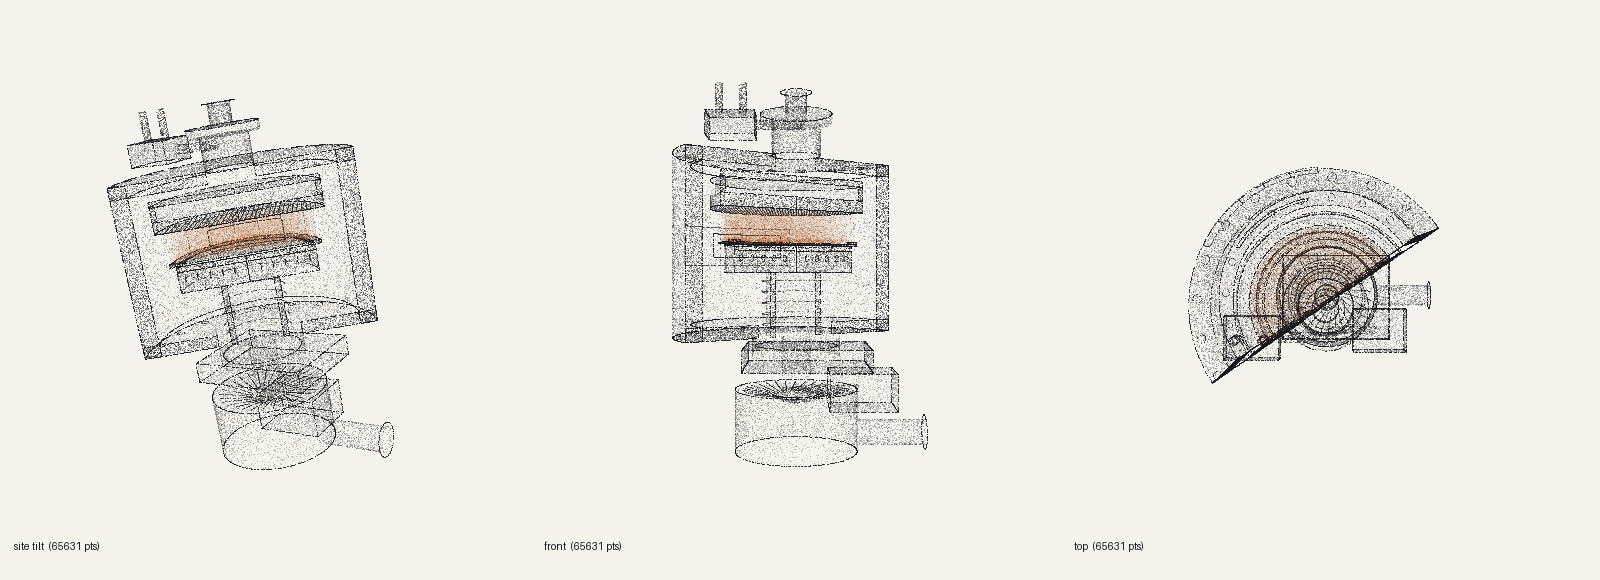
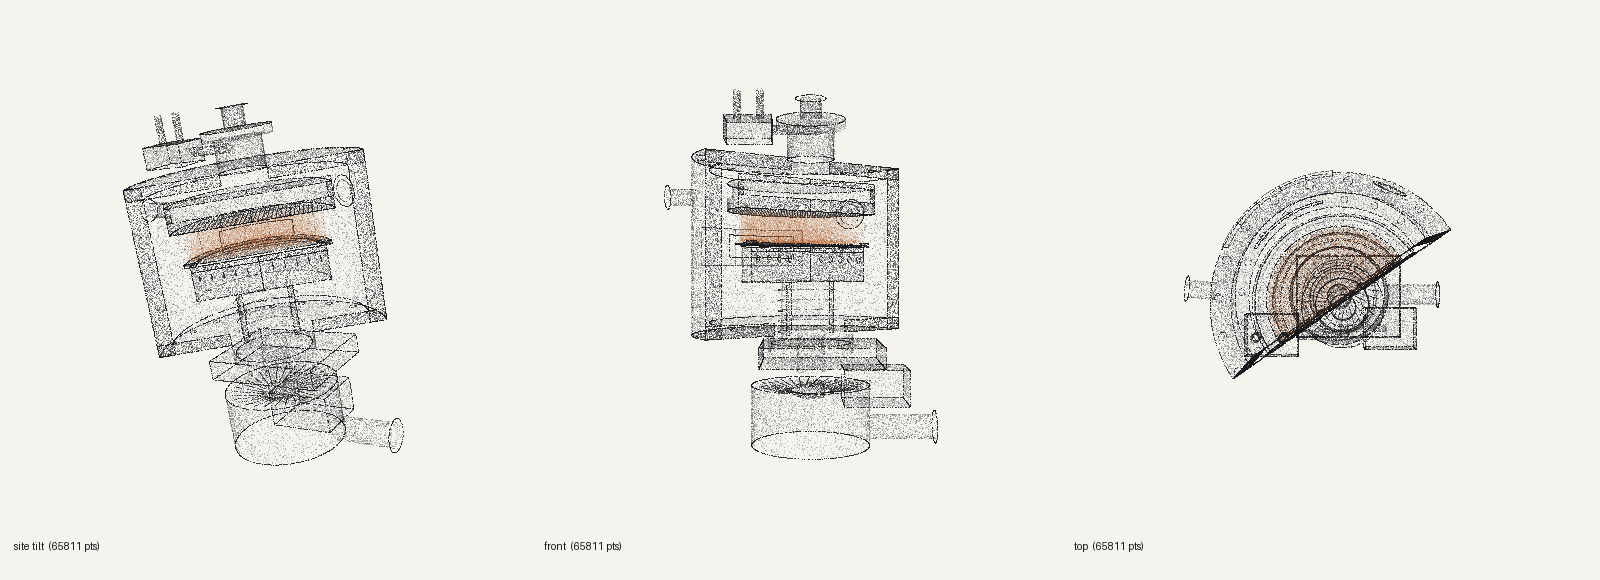
Auto-checkpoint: specimen redesign outputs

Changed region(s): [[0.0625, 0.1552, 0.25, 0.8069], [0.4062, 0.1552, 0.5938, 0.8069], [0.7188, 0.2793, 0.9062, 0.6517]]

diff --git a/dist/index.html b/dist/index.html
@@ -4558,7 +4558,7 @@ PC.register('process-chamber', function (p) {
 
   var yMid = (yTop + yBot) / 2, yLid = yTop + wall, yFlo = yBot - wall;
   add(PC.T(cut(PC.cylinder({ r: rO, h: yLid - yFlo, caps: false, n: 9000, tone: 0.36 })), { pos: [0, (yLid + yFlo) / 2, 0] }));
-  add(PC.T(cut(PC.cylinder({ r: rI, h: yTop - yBot, caps: false, n: 5200, tone: 0.15 })), { pos: [0, yMid, 0] }));
+  add(PC.T(cut(PC.cylinder({ r: rI, h: yTop - yBot, caps: false, n: 4200, tone: 0.115 })), { pos: [0, yMid, 0] }));
   add(face(rI, rO, yFlo, yLid, 0.6));                                    // the wall, sectioned
   add(cut(PC.T(PC.disc({ r: rO, rIn: 0.105, n: 3600, tone: 0.3 }), { pos: [0, yFlo, 0] })));
   add(cut(PC.T(PC.disc({ r: rO, rIn: 0.105, n: 2000, tone: 0.16 }), { pos: [0, yBot, 0] })));
@@ -4607,7 +4607,7 @@ PC.register('process-chamber', function (p) {
 
   /* ---------- electrostatic chuck, focus ring, wafer ---------- */
 
-  var pedR = 0.170, yPed = yWaf - 0.004, pedH = 0.066;
+  var pedR = 0.170, yPed = yWaf - 0.005, pedH = 0.088;
   add(cut(PC.T(PC.cylinder({ r: pedR, h: pedH, caps: false, n: 1700, tone: 0.32 }), { pos: [0, yPed - pedH / 2, 0] })));
   add(face(0, pedR, yPed - pedH, yPed - 0.014, 0.5));                    // aluminium base plate
   add(face(0, pedR, yPed - 0.014, yPed, 0.8));                           // the ceramic puck
@@ -4621,10 +4621,10 @@ PC.register('process-chamber', function (p) {
   }
   add(cut(PC.T(PC.disc({ r: 0.185, rIn: wafR + 0.004, n: 1300, tone: 0.45 }), { pos: [0, yPed + 0.005, 0] })));
   add(cut(PC.T(PC.circle({ r: 0.185, perUnit: 480, tone: 1 }), { pos: [0, yPed + 0.005, 0] })));
-  add(cut(PC.T(PC.circle({ r: wafR + 0.004, perUnit: 420, tone: 0.9 }), { pos: [0, yPed + 0.005, 0] })));
+  add(cut(PC.T(PC.circle({ r: wafR + 0.004, perUnit: 260, tone: 0.7 }), { pos: [0, yPed + 0.005, 0] })));
   add(face(wafR + 0.004, 0.185, yPed, yPed + 0.010, 0.7));
   add(cut(PC.T(PC.disc({ r: wafR, n: 2400, tone: 0.34 }), { pos: [0, yWaf, 0] })));
-  add(cut(PC.T(PC.circle({ r: wafR, perUnit: 620, tone: 1 }), { pos: [0, yWaf + 0.001, 0] })));
+  add(cut(PC.T(PC.circle({ r: wafR, perUnit: 420, tone: 1 }), { pos: [0, yWaf + 0.001, 0] })));
   add(cutLine(wafR, yWaf + 0.001, 1));
   add(cut(PC.T(PC.cylinder({ r: 0.072, h: 0.150, caps: false, n: 1200, tone: 0.28 }), { pos: [0, yPed - pedH - 0.075, 0] })));
   add(face(0.058, 0.072, yFlo, yPed - pedH, 0.55));
@@ -4662,6 +4662,14 @@ PC.register('process-chamber', function (p) {
   add(PC.T(PC.polyline({ pts: dv, perUnit: 420, tone: 0.6 }), { pos: [0, yWaf + svH * 1.7, 0] }));
   add(PC.T(PC.polyline({ pts: dv, perUnit: 420, tone: 0.6 }), { pos: [0, yWaf - svH * 1.7, 0] }));
   for (k = 0; k < dv.length; k += 6) add(PC.line({ a: [dv[k][0], yWaf - svH * 1.7, dv[k][2]], b: [dv[k][0], yWaf + svH * 1.7, dv[k][2]], perUnit: 300, tone: 0.45 }));
+
+  // viewport and gauge port in the standing wall
+  var vpA = AC + Math.PI * 1.32, vpRy = Math.PI / 2 - vpA;
+  add(PC.T(PC.circle({ r: 0.042, perUnit: 520, tone: 0.9 }), { rot: [Math.PI / 2, vpRy, 0], pos: [rO * Math.cos(vpA), 0.075, rO * Math.sin(vpA)] }));
+  add(PC.T(PC.circle({ r: 0.029, perUnit: 400, tone: 0.6 }), { rot: [Math.PI / 2, vpRy, 0], pos: [rO * Math.cos(vpA), 0.075, rO * Math.sin(vpA)] }));
+  var gpA = AC + Math.PI * 0.72, gpRy = Math.PI / 2 - gpA;
+  add(PC.T(PC.cylinder({ r: 0.020, h: 0.070, caps: false, n: 300, tone: 0.4 }), { rot: [Math.PI / 2, gpRy, 0], pos: [(rO + 0.035) * Math.cos(gpA), 0.100, (rO + 0.035) * Math.sin(gpA)] }));
+  add(PC.T(PC.circle({ r: 0.030, perUnit: 460, tone: 0.9 }), { rot: [Math.PI / 2, gpRy, 0], pos: [(rO + 0.070) * Math.cos(gpA), 0.100, (rO + 0.070) * Math.sin(gpA)] }));
 
   /* ---------- gate valve and turbopump ---------- */
 
@@ -5117,15 +5125,15 @@ PC.register('substrate-layers', function (p) {
   function section(L) {
     var s = [], i, k, u;
     // resin bulk behind everything
-    s.push(PC.T(PC.scatter({ n: Math.round(L * H * 5200), w: L, h: H, d: 0, tone: 0.18 }), { pos: [L / 2, 0, 0] }));
+    s.push(PC.T(PC.scatter({ n: Math.round(L * H * 21000), w: L, h: H, d: 0, tone: 0.18 }), { pos: [L / 2, 0, 0] }));
     // the build-up film: the chokepoint, so the dielectric is the copper colour
     for (k = 1; k <= nb; k++) {
-      var band = PC.scatter({ n: Math.round(L * tb * 7000), w: L, h: tb * 0.86, d: 0 });
+      var band = PC.scatter({ n: Math.round(L * tb * 34000), w: L, h: tb * 0.86, d: 0 });
       s.push(PC.T(PC.accent(band, 0.42), { pos: [L / 2, lay[k] - tb / 2, 0] }));
-      s.push(PC.T(PC.accent(PC.scatter({ n: Math.round(L * tb * 7000), w: L, h: tb * 0.86, d: 0 }), 0.42), { pos: [L / 2, -lay[k] + tb / 2, 0] }));
+      s.push(PC.T(PC.accent(PC.scatter({ n: Math.round(L * tb * 34000), w: L, h: tb * 0.86, d: 0 }), 0.42), { pos: [L / 2, -lay[k] + tb / 2, 0] }));
     }
     // the core: darker, with a hint of the woven glass cloth inside it
-    s.push(PC.T(PC.scatter({ n: Math.round(L * tc * 6000), w: L, h: tc, d: 0, tone: 0.34 }), { pos: [L / 2, 0, 0] }));
+    s.push(PC.T(PC.scatter({ n: Math.round(L * tc * 24000), w: L, h: tc, d: 0, tone: 0.42 }), { pos: [L / 2, 0, 0] }));
     for (i = 0; i < Math.round(L * 46); i++) {
       u = (i + 0.5) * L / Math.round(L * 46);
       [-tc * 0.22, tc * 0.22].forEach(function (yy) {
@@ -5137,12 +5145,12 @@ PC.register('substrate-layers', function (p) {
     function conductors(sgn) {
       for (k = 0; k <= nb; k++) {
         var y = sgn * lay[k];
-        s.push(seg([0, y, 0], [L, y, 0], 120, 0.28));
+        s.push(seg([0, y, 0], [L, y, 0], k === 0 ? 260 : 120, k === 0 ? 0.55 : 0.28));
         u = 0.004;
         while (u < L - 0.004) {
           var w = 0.004 + PC.rnd() * (k === 0 ? 0.05 : 0.028);
           if (u + w > L - 0.004) break;
-          s.push(seg([u, y, 0], [u + w, y, 0], 700, 1));
+          s.push(seg([u, y, 0], [u + w, y, 0], 560, 1));
           u += w + 0.004 + PC.rnd() * 0.02;
         }
       }
@@ -5150,32 +5158,32 @@ PC.register('substrate-layers', function (p) {
     conductors(1); conductors(-1);
     // solder resist, top and bottom
     [1, -1].forEach(function (sg) {
-      s.push(PC.T(PC.scatter({ n: Math.round(L * tr * 6500), w: L, h: tr, d: 0, tone: 0.42 }), { pos: [L / 2, sg * (lay[nb] + tr / 2), 0] }));
+      s.push(PC.T(PC.scatter({ n: Math.round(L * tr * 22000), w: L, h: tr, d: 0, tone: 0.42 }), { pos: [L / 2, sg * (lay[nb] + tr / 2), 0] }));
       s.push(seg([0, sg * top, 0], [L, sg * top, 0], 460, 0.95));
     });
     // plated through-holes: copper barrels straight through the core, with the
     // pads that cap them at both ends
-    var np = Math.max(3, Math.round(L * 13));
+    var np = Math.max(3, Math.round(L * 9));
     for (i = 0; i < np; i++) {
       u = (i + 0.5) * L / np + (PC.rnd() - 0.5) * 0.01;
       var hw = 0.0062;
-      s.push(seg([u - hw, -cTop, 0], [u - hw, cTop, 0], 620, 0.95));
-      s.push(seg([u + hw, -cTop, 0], [u + hw, cTop, 0], 620, 0.95));
-      s.push(seg([u - hw * 2.6, cTop, 0], [u + hw * 2.6, cTop, 0], 620, 1));
-      s.push(seg([u - hw * 2.6, -cTop, 0], [u + hw * 2.6, -cTop, 0], 620, 1));
+      s.push(seg([u - hw, -cTop, 0], [u - hw, cTop, 0], 560, 0.82));
+      s.push(seg([u + hw, -cTop, 0], [u + hw, cTop, 0], 560, 0.82));
+      s.push(seg([u - hw * 2.6, cTop, 0], [u + hw * 2.6, cTop, 0], 560, 0.9));
+      s.push(seg([u - hw * 2.6, -cTop, 0], [u + hw * 2.6, -cTop, 0], 560, 0.9));
     }
     // microvias: laser-drilled, tapered, one per build-up layer, some stacked in
     // a column and some staggered as they climb
-    var nv = Math.max(4, Math.round(L * 11));
+    var nv = Math.max(4, Math.round(L * 8));
     for (i = 0; i < nv; i++) {
       var u0 = (i + 0.5) * L / nv, stacked = (i % 3 !== 0);
       [1, -1].forEach(function (sg) {
-        var uu = u0;
-        for (k = 1; k <= nb; k++) {
+        var uu = u0, climb = 2 + Math.floor(PC.rnd() * (nb - 1));
+        for (k = 1; k <= climb; k++) {
           if (!stacked) uu += (k % 2 ? 1 : -1) * 0.011;
           var yl = sg * lay[k - 1], yh = sg * lay[k];
-          s.push(seg([uu - 0.0058, yh, 0], [uu - 0.0030, yl, 0], 700, 0.9));
-          s.push(seg([uu + 0.0058, yh, 0], [uu + 0.0030, yl, 0], 700, 0.9));
+          s.push(seg([uu - 0.0058, yh, 0], [uu - 0.0030, yl, 0], 560, 0.7));
+          s.push(seg([uu + 0.0058, yh, 0], [uu + 0.0030, yl, 0], 560, 0.7));
         }
       });
     }
@@ -5228,7 +5236,7 @@ PC.register('substrate-layers', function (p) {
   }
   var sw = 0.82, sd = 0.53, yT = top + 0.003;
   add(cut(PC.T(PC.polyline({ pts: [[-sw / 2, 0, -sd / 2], [sw / 2, 0, -sd / 2], [sw / 2, 0, sd / 2], [-sw / 2, 0, sd / 2]], closed: true, perUnit: 360, tone: 1 }), { pos: [0, yT, 0] })));
-  add(cut(PC.T(PC.dots({ nx: 54, nz: 35, sx: sw / 55, sz: sd / 36, per: 2, tone: 0.62 }), { pos: [0, yT, 0] })));
+  add(cut(PC.T(PC.dots({ nx: 46, nz: 30, sx: sw / 47, sz: sd / 31, per: 2, tone: 0.58 }), { pos: [0, yT, 0] })));
   var caps = [];
   for (var q = 0; q < 30; q++) {
     var cu = (q - 14.5) * (W * 0.94 / 30);

diff --git a/specimens/substrate-layers.js b/specimens/substrate-layers.js
@@ -35,15 +35,15 @@ PC.register('substrate-layers', function (p) {
   function section(L) {
     var s = [], i, k, u;
     // resin bulk behind everything
-    s.push(PC.T(PC.scatter({ n: Math.round(L * H * 5200), w: L, h: H, d: 0, tone: 0.18 }), { pos: [L / 2, 0, 0] }));
+    s.push(PC.T(PC.scatter({ n: Math.round(L * H * 21000), w: L, h: H, d: 0, tone: 0.18 }), { pos: [L / 2, 0, 0] }));
     // the build-up film: the chokepoint, so the dielectric is the copper colour
     for (k = 1; k <= nb; k++) {
-      var band = PC.scatter({ n: Math.round(L * tb * 7000), w: L, h: tb * 0.86, d: 0 });
+      var band = PC.scatter({ n: Math.round(L * tb * 34000), w: L, h: tb * 0.86, d: 0 });
       s.push(PC.T(PC.accent(band, 0.42), { pos: [L / 2, lay[k] - tb / 2, 0] }));
-      s.push(PC.T(PC.accent(PC.scatter({ n: Math.round(L * tb * 7000), w: L, h: tb * 0.86, d: 0 }), 0.42), { pos: [L / 2, -lay[k] + tb / 2, 0] }));
+      s.push(PC.T(PC.accent(PC.scatter({ n: Math.round(L * tb * 34000), w: L, h: tb * 0.86, d: 0 }), 0.42), { pos: [L / 2, -lay[k] + tb / 2, 0] }));
     }
     // the core: darker, with a hint of the woven glass cloth inside it
-    s.push(PC.T(PC.scatter({ n: Math.round(L * tc * 6000), w: L, h: tc, d: 0, tone: 0.34 }), { pos: [L / 2, 0, 0] }));
+    s.push(PC.T(PC.scatter({ n: Math.round(L * tc * 24000), w: L, h: tc, d: 0, tone: 0.42 }), { pos: [L / 2, 0, 0] }));
     for (i = 0; i < Math.round(L * 46); i++) {
       u = (i + 0.5) * L / Math.round(L * 46);
       [-tc * 0.22, tc * 0.22].forEach(function (yy) {
@@ -55,12 +55,12 @@ PC.register('substrate-layers', function (p) {
     function conductors(sgn) {
       for (k = 0; k <= nb; k++) {
         var y = sgn * lay[k];
-        s.push(seg([0, y, 0], [L, y, 0], 120, 0.28));
+        s.push(seg([0, y, 0], [L, y, 0], k === 0 ? 260 : 120, k === 0 ? 0.55 : 0.28));
         u = 0.004;
         while (u < L - 0.004) {
           var w = 0.004 + PC.rnd() * (k === 0 ? 0.05 : 0.028);
           if (u + w > L - 0.004) break;
-          s.push(seg([u, y, 0], [u + w, y, 0], 700, 1));
+          s.push(seg([u, y, 0], [u + w, y, 0], 560, 1));
           u += w + 0.004 + PC.rnd() * 0.02;
         }
       }
@@ -68,32 +68,32 @@ PC.register('substrate-layers', function (p) {
     conductors(1); conductors(-1);
     // solder resist, top and bottom
     [1, -1].forEach(function (sg) {
-      s.push(PC.T(PC.scatter({ n: Math.round(L * tr * 6500), w: L, h: tr, d: 0, tone: 0.42 }), { pos: [L / 2, sg * (lay[nb] + tr / 2), 0] }));
+      s.push(PC.T(PC.scatter({ n: Math.round(L * tr * 22000), w: L, h: tr, d: 0, tone: 0.42 }), { pos: [L / 2, sg * (lay[nb] + tr / 2), 0] }));
       s.push(seg([0, sg * top, 0], [L, sg * top, 0], 460, 0.95));
     });
     // plated through-holes: copper barrels straight through the core, with the
     // pads that cap them at both ends
-    var np = Math.max(3, Math.round(L * 13));
+    var np = Math.max(3, Math.round(L * 9));
     for (i = 0; i < np; i++) {
       u = (i + 0.5) * L / np + (PC.rnd() - 0.5) * 0.01;
       var hw = 0.0062;
-      s.push(seg([u - hw, -cTop, 0], [u - hw, cTop, 0], 620, 0.95));
-      s.push(seg([u + hw, -cTop, 0], [u + hw, cTop, 0], 620, 0.95));
-      s.push(seg([u - hw * 2.6, cTop, 0], [u + hw * 2.6, cTop, 0], 620, 1));
-      s.push(seg([u - hw * 2.6, -cTop, 0], [u + hw * 2.6, -cTop, 0], 620, 1));
+      s.push(seg([u - hw, -cTop, 0], [u - hw, cTop, 0], 560, 0.82));
+      s.push(seg([u + hw, -cTop, 0], [u + hw, cTop, 0], 560, 0.82));
+      s.push(seg([u - hw * 2.6, cTop, 0], [u + hw * 2.6, cTop, 0], 560, 0.9));
+      s.push(seg([u - hw * 2.6, -cTop, 0], [u + hw * 2.6, -cTop, 0], 560, 0.9));
     }
     // microvias: laser-drilled, tapered, one per build-up layer, some stacked in
     // a column and some staggered as they climb
-    var nv = Math.max(4, Math.round(L * 11));
+    var nv = Math.max(4, Math.round(L * 8));
     for (i = 0; i < nv; i++) {
       var u0 = (i + 0.5) * L / nv, stacked = (i % 3 !== 0);
       [1, -1].forEach(function (sg) {
-        var uu = u0;
-        for (k = 1; k <= nb; k++) {
+        var uu = u0, climb = 2 + Math.floor(PC.rnd() * (nb - 1));
+        for (k = 1; k <= climb; k++) {
           if (!stacked) uu += (k % 2 ? 1 : -1) * 0.011;
           var yl = sg * lay[k - 1], yh = sg * lay[k];
-          s.push(seg([uu - 0.0058, yh, 0], [uu - 0.0030, yl, 0], 700, 0.9));
-          s.push(seg([uu + 0.0058, yh, 0], [uu + 0.0030, yl, 0], 700, 0.9));
+          s.push(seg([uu - 0.0058, yh, 0], [uu - 0.0030, yl, 0], 560, 0.7));
+          s.push(seg([uu + 0.0058, yh, 0], [uu + 0.0030, yl, 0], 560, 0.7));
         }
       });
     }
@@ -146,7 +146,7 @@ PC.register('substrate-layers', function (p) {
   }
   var sw = 0.82, sd = 0.53, yT = top + 0.003;
   add(cut(PC.T(PC.polyline({ pts: [[-sw / 2, 0, -sd / 2], [sw / 2, 0, -sd / 2], [sw / 2, 0, sd / 2], [-sw / 2, 0, sd / 2]], closed: true, perUnit: 360, tone: 1 }), { pos: [0, yT, 0] })));
-  add(cut(PC.T(PC.dots({ nx: 54, nz: 35, sx: sw / 55, sz: sd / 36, per: 2, tone: 0.62 }), { pos: [0, yT, 0] })));
+  add(cut(PC.T(PC.dots({ nx: 46, nz: 30, sx: sw / 47, sz: sd / 31, per: 2, tone: 0.58 }), { pos: [0, yT, 0] })));
   var caps = [];
   for (var q = 0; q < 30; q++) {
     var cu = (q - 14.5) * (W * 0.94 / 30);

diff --git a/specimens/process-chamber.js b/specimens/process-chamber.js
@@ -71,7 +71,7 @@ PC.register('process-chamber', function (p) {
 
   var yMid = (yTop + yBot) / 2, yLid = yTop + wall, yFlo = yBot - wall;
   add(PC.T(cut(PC.cylinder({ r: rO, h: yLid - yFlo, caps: false, n: 9000, tone: 0.36 })), { pos: [0, (yLid + yFlo) / 2, 0] }));
-  add(PC.T(cut(PC.cylinder({ r: rI, h: yTop - yBot, caps: false, n: 5200, tone: 0.15 })), { pos: [0, yMid, 0] }));
+  add(PC.T(cut(PC.cylinder({ r: rI, h: yTop - yBot, caps: false, n: 4200, tone: 0.115 })), { pos: [0, yMid, 0] }));
   add(face(rI, rO, yFlo, yLid, 0.6));                                    // the wall, sectioned
   add(cut(PC.T(PC.disc({ r: rO, rIn: 0.105, n: 3600, tone: 0.3 }), { pos: [0, yFlo, 0] })));
   add(cut(PC.T(PC.disc({ r: rO, rIn: 0.105, n: 2000, tone: 0.16 }), { pos: [0, yBot, 0] })));
@@ -120,7 +120,7 @@ PC.register('process-chamber', function (p) {
 
   /* ---------- electrostatic chuck, focus ring, wafer ---------- */
 
-  var pedR = 0.170, yPed = yWaf - 0.004, pedH = 0.066;
+  var pedR = 0.170, yPed = yWaf - 0.005, pedH = 0.088;
   add(cut(PC.T(PC.cylinder({ r: pedR, h: pedH, caps: false, n: 1700, tone: 0.32 }), { pos: [0, yPed - pedH / 2, 0] })));
   add(face(0, pedR, yPed - pedH, yPed - 0.014, 0.5));                    // aluminium base plate
   add(face(0, pedR, yPed - 0.014, yPed, 0.8));                           // the ceramic puck
@@ -134,10 +134,10 @@ PC.register('process-chamber', function (p) {
   }
   add(cut(PC.T(PC.disc({ r: 0.185, rIn: wafR + 0.004, n: 1300, tone: 0.45 }), { pos: [0, yPed + 0.005, 0] })));
   add(cut(PC.T(PC.circle({ r: 0.185, perUnit: 480, tone: 1 }), { pos: [0, yPed + 0.005, 0] })));
-  add(cut(PC.T(PC.circle({ r: wafR + 0.004, perUnit: 420, tone: 0.9 }), { pos: [0, yPed + 0.005, 0] })));
+  add(cut(PC.T(PC.circle({ r: wafR + 0.004, perUnit: 260, tone: 0.7 }), { pos: [0, yPed + 0.005, 0] })));
   add(face(wafR + 0.004, 0.185, yPed, yPed + 0.010, 0.7));
   add(cut(PC.T(PC.disc({ r: wafR, n: 2400, tone: 0.34 }), { pos: [0, yWaf, 0] })));
-  add(cut(PC.T(PC.circle({ r: wafR, perUnit: 620, tone: 1 }), { pos: [0, yWaf + 0.001, 0] })));
+  add(cut(PC.T(PC.circle({ r: wafR, perUnit: 420, tone: 1 }), { pos: [0, yWaf + 0.001, 0] })));
   add(cutLine(wafR, yWaf + 0.001, 1));
   add(cut(PC.T(PC.cylinder({ r: 0.072, h: 0.150, caps: false, n: 1200, tone: 0.28 }), { pos: [0, yPed - pedH - 0.075, 0] })));
   add(face(0.058, 0.072, yFlo, yPed - pedH, 0.55));
@@ -175,6 +175,14 @@ PC.register('process-chamber', function (p) {
   add(PC.T(PC.polyline({ pts: dv, perUnit: 420, tone: 0.6 }), { pos: [0, yWaf + svH * 1.7, 0] }));
   add(PC.T(PC.polyline({ pts: dv, perUnit: 420, tone: 0.6 }), { pos: [0, yWaf - svH * 1.7, 0] }));
   for (k = 0; k < dv.length; k += 6) add(PC.line({ a: [dv[k][0], yWaf - svH * 1.7, dv[k][2]], b: [dv[k][0], yWaf + svH * 1.7, dv[k][2]], perUnit: 300, tone: 0.45 }));
+
+  // viewport and gauge port in the standing wall
+  var vpA = AC + Math.PI * 1.32, vpRy = Math.PI / 2 - vpA;
+  add(PC.T(PC.circle({ r: 0.042, perUnit: 520, tone: 0.9 }), { rot: [Math.PI / 2, vpRy, 0], pos: [rO * Math.cos(vpA), 0.075, rO * Math.sin(vpA)] }));
+  add(PC.T(PC.circle({ r: 0.029, perUnit: 400, tone: 0.6 }), { rot: [Math.PI / 2, vpRy, 0], pos: [rO * Math.cos(vpA), 0.075, rO * Math.sin(vpA)] }));
+  var gpA = AC + Math.PI * 0.72, gpRy = Math.PI / 2 - gpA;
+  add(PC.T(PC.cylinder({ r: 0.020, h: 0.070, caps: false, n: 300, tone: 0.4 }), { rot: [Math.PI / 2, gpRy, 0], pos: [(rO + 0.035) * Math.cos(gpA), 0.100, (rO + 0.035) * Math.sin(gpA)] }));
+  add(PC.T(PC.circle({ r: 0.030, perUnit: 460, tone: 0.9 }), { rot: [Math.PI / 2, gpRy, 0], pos: [(rO + 0.070) * Math.cos(gpA), 0.100, (rO + 0.070) * Math.sin(gpA)] }));
 
   /* ---------- gate valve and turbopump ---------- */
 
